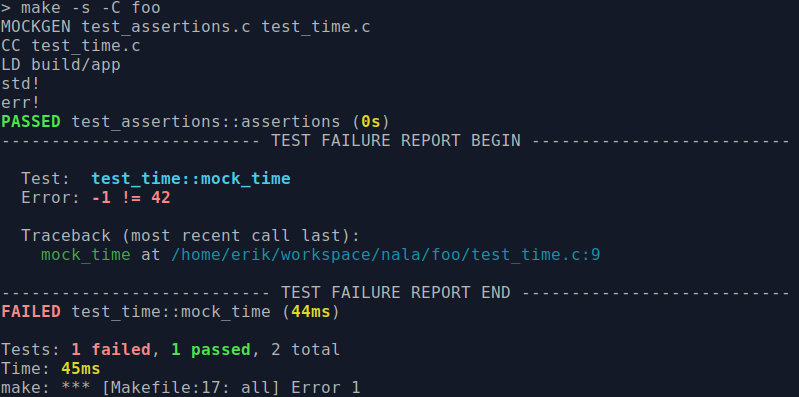
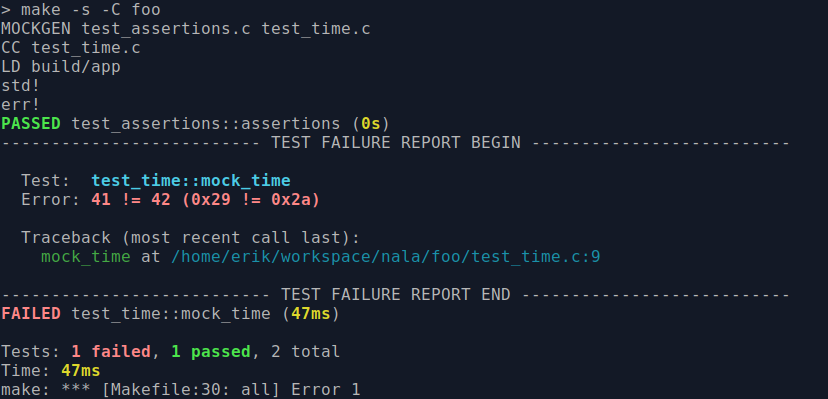
Fix init message and update README.

diff --git a/nala/cli.py b/nala/cli.py
@@ -39,7 +39,7 @@ def do_init(args):
     generate_makefile()
     copy_nala()
 
-    print(f"Run 'make -C {args.name}' to build and run the test suite!")
+    print(f"Run 'make -C {args.name}' to build and run all tests!")
 
 
 def do_generate_mocks(args):

diff --git a/README.rst b/README.rst
@@ -120,7 +120,7 @@ Now, make the time test fail to see what an error report looks like.
 
    TEST(mock_time)
    {
-       time_mock_once(-1);
+       time_mock_once(41);
 
        ASSERT_EQ(time(NULL), 42);
    }
